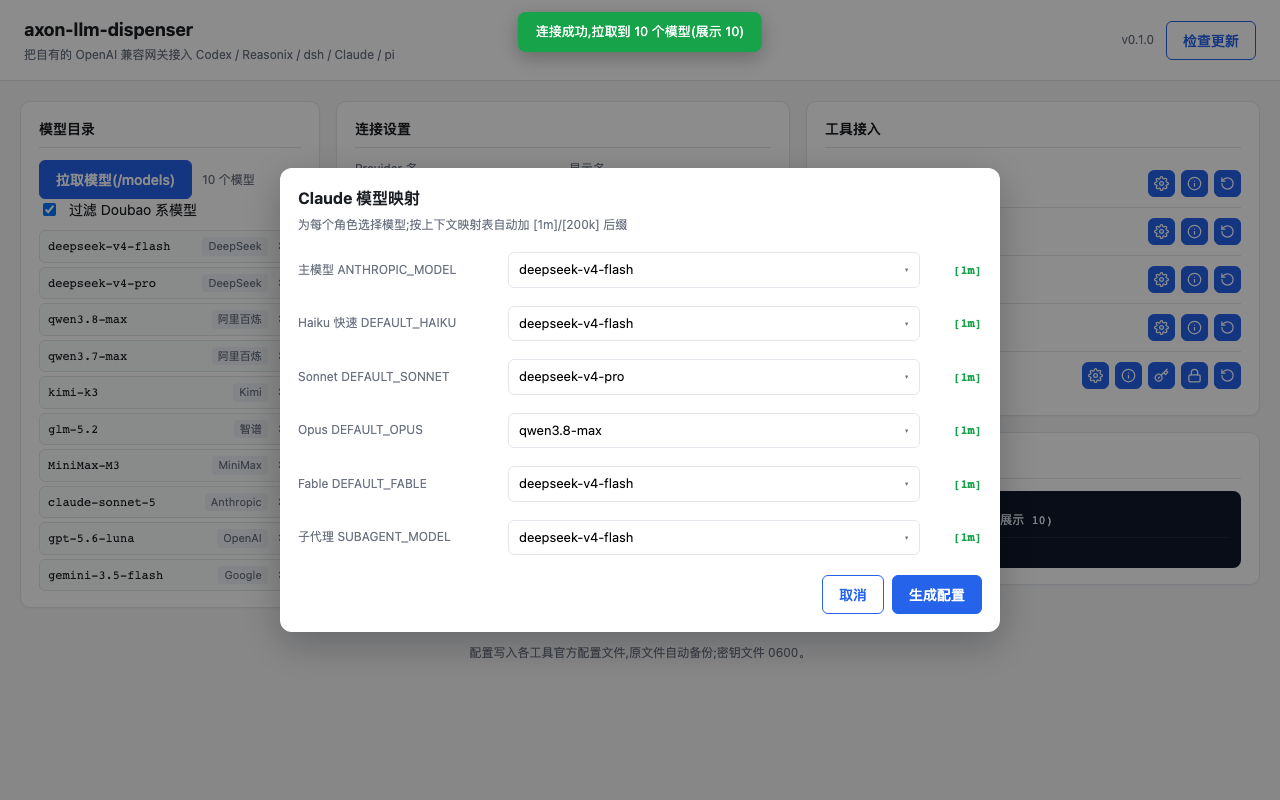
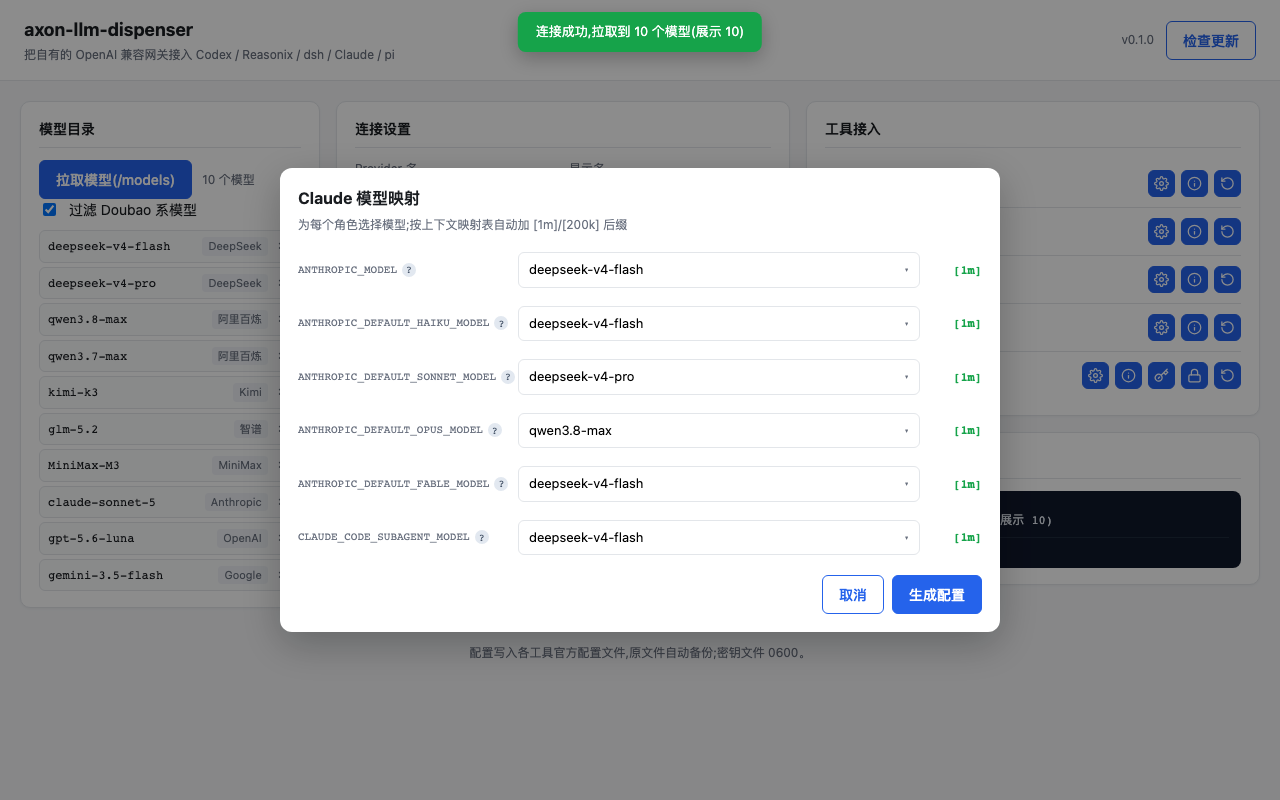
fix: Claude 模型选择器下拉框 fixed 定位不被弹窗裁剪;label 改字段名+问号 tip
- 下拉框 position:absolute 被弹窗 overflow:hidden 裁剪,改为 position:fixed,
  打开时按按钮 rect 计算 top/left/width,层级 z-index 500 提升,超出弹窗也完整显示
- 弹窗左侧 label 改为等宽字段名(ANTHROPIC_MODEL 等)+ 小问号图标,
  hover 显示中文字段说明(主模型/Haiku/子代理等)
- 移动仓库后清理旧 target 完整重建;刷新 README mock 截图

diff --git a/src/main.ts b/src/main.ts
@@ -209,6 +209,11 @@ function customSelect(options: string[], initial: string, onChange: (v: string) 
     e.stopPropagation();
     const isOpen = popup.classList.toggle("open");
     if (isOpen) {
+      const rect = btn.getBoundingClientRect();
+      popup.style.top = `${rect.bottom + 4}px`;
+      popup.style.left = `${rect.left}px`;
+      popup.style.width = `${rect.width}px`;
+      popup.style.maxHeight = `${Math.max(120, window.innerHeight - rect.bottom - 16)}px`;
       filter.value = "";
       render();
       filter.focus();
@@ -407,13 +412,13 @@ function openClaudeConfigModal(): void {
       return cur && ids.includes(cur) ? cur : def;
     };
 
-    const roleDefs: { key: "main" | "haiku" | "sonnet" | "opus" | "fable" | "subagent"; label: string }[] = [
-      { key: "main", label: "主模型 ANTHROPIC_MODEL" },
-      { key: "haiku", label: "Haiku 快速 DEFAULT_HAIKU" },
-      { key: "sonnet", label: "Sonnet DEFAULT_SONNET" },
-      { key: "opus", label: "Opus DEFAULT_OPUS" },
-      { key: "fable", label: "Fable DEFAULT_FABLE" },
-      { key: "subagent", label: "子代理 SUBAGENT_MODEL" },
+    const roleDefs: { key: "main" | "haiku" | "sonnet" | "opus" | "fable" | "subagent"; env: string; desc: string }[] = [
+      { key: "main", env: "ANTHROPIC_MODEL", desc: "主模型:默认会话使用的模型" },
+      { key: "haiku", env: "ANTHROPIC_DEFAULT_HAIKU_MODEL", desc: "Haiku 快速模型:后台任务 / 轻量调用" },
+      { key: "sonnet", env: "ANTHROPIC_DEFAULT_SONNET_MODEL", desc: "Sonnet 模型:日常任务" },
+      { key: "opus", env: "ANTHROPIC_DEFAULT_OPUS_MODEL", desc: "Opus 模型:复杂任务" },
+      { key: "fable", env: "ANTHROPIC_DEFAULT_FABLE_MODEL", desc: "Fable 模型" },
+      { key: "subagent", env: "CLAUDE_CODE_SUBAGENT_MODEL", desc: "子代理使用的模型" },
     ];
     const selects: Record<string, { value: () => string }> = {};
 
@@ -434,7 +439,10 @@ function openClaudeConfigModal(): void {
       selects[r.key] = sel;
       updatePreview(sel.value());
       list.append(h("div", { class: "claude-role-row" }, [
-        h("span", { class: "claude-role-label" }, [r.label]),
+        h("span", { class: "claude-role-label" }, [
+          r.env,
+          h("span", { class: "claude-tip", "data-tip": r.desc }, ["?"]),
+        ]),
         sel.el,
         preview,
       ]));

diff --git a/src/styles.css b/src/styles.css
@@ -264,7 +264,50 @@ body {
 
 /* Claude 角色映射 */
 .claude-role-row { display: flex; align-items: center; gap: 10px; padding: 6px 0; flex-shrink: 0; }
-.claude-role-label { width: 200px; font-size: 12px; flex-shrink: 0; color: var(--muted); }
+.claude-role-label {
+  width: 210px;
+  font-size: 11px;
+  flex-shrink: 0;
+  color: var(--muted);
+  display: flex;
+  align-items: center;
+  gap: 5px;
+  font-family: ui-monospace, monospace;
+}
+.claude-tip {
+  position: relative;
+  display: inline-flex;
+  width: 14px;
+  height: 14px;
+  border-radius: 50%;
+  background: #e2e8f0;
+  color: #475569;
+  font-size: 10px;
+  align-items: center;
+  justify-content: center;
+  cursor: help;
+  flex-shrink: 0;
+  font-family: inherit;
+}
+.claude-tip::after {
+  content: attr(data-tip);
+  position: absolute;
+  left: 50%;
+  bottom: calc(100% + 6px);
+  transform: translateX(-50%);
+  background: #1f2937;
+  color: #f9fafb;
+  padding: 6px 10px;
+  border-radius: 6px;
+  font-size: 11px;
+  white-space: nowrap;
+  opacity: 0;
+  pointer-events: none;
+  transition: opacity 0.15s;
+  z-index: 600;
+  font-family: -apple-system, BlinkMacSystemFont, "Segoe UI", sans-serif;
+}
+.claude-tip:hover::after { opacity: 1; }
 .claude-preview { font-family: ui-monospace, monospace; font-size: 12px; color: var(--ok); font-weight: 600; white-space: nowrap; width: 52px; text-align: right; }
 
 /* 自定义下拉 */
@@ -287,15 +330,12 @@ body {
 .cselect-value { overflow: hidden; text-overflow: ellipsis; white-space: nowrap; }
 .cselect-arrow { color: var(--muted); font-size: 10px; }
 .cselect-popup {
-  position: absolute;
-  top: calc(100% + 4px);
-  left: 0;
-  right: 0;
+  position: fixed; /* fixed 定位,逃离弹窗 overflow:hidden 裁剪;top/left/width 由 JS 计算 */
   background: #fff;
   border: 1px solid var(--border);
   border-radius: 8px;
-  box-shadow: 0 8px 24px rgba(0, 0, 0, 0.15);
-  z-index: 210;
+  box-shadow: 0 8px 24px rgba(0, 0, 0, 0.18);
+  z-index: 500;
   display: none;
   flex-direction: column;
   overflow: hidden;
